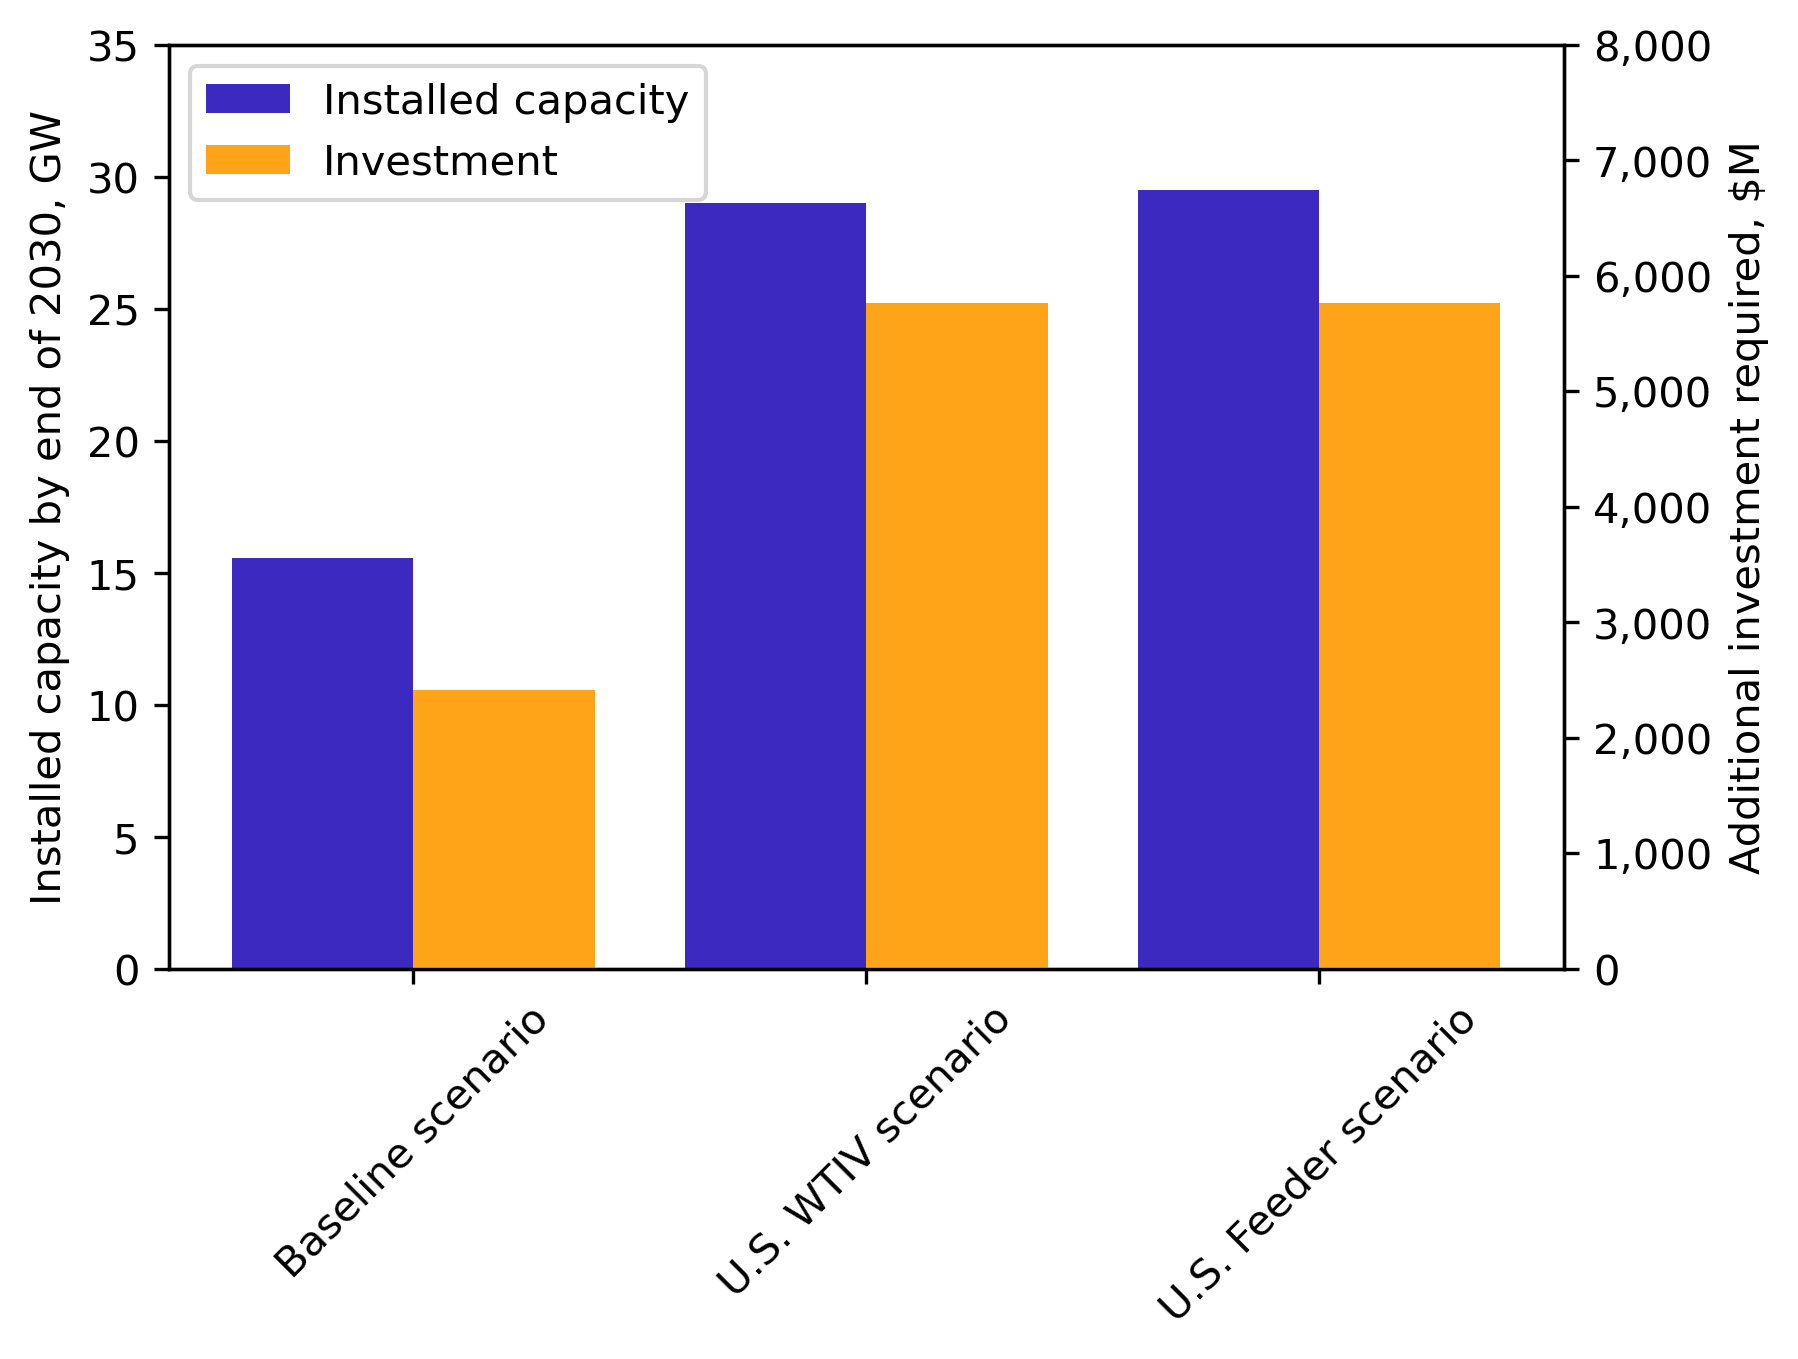
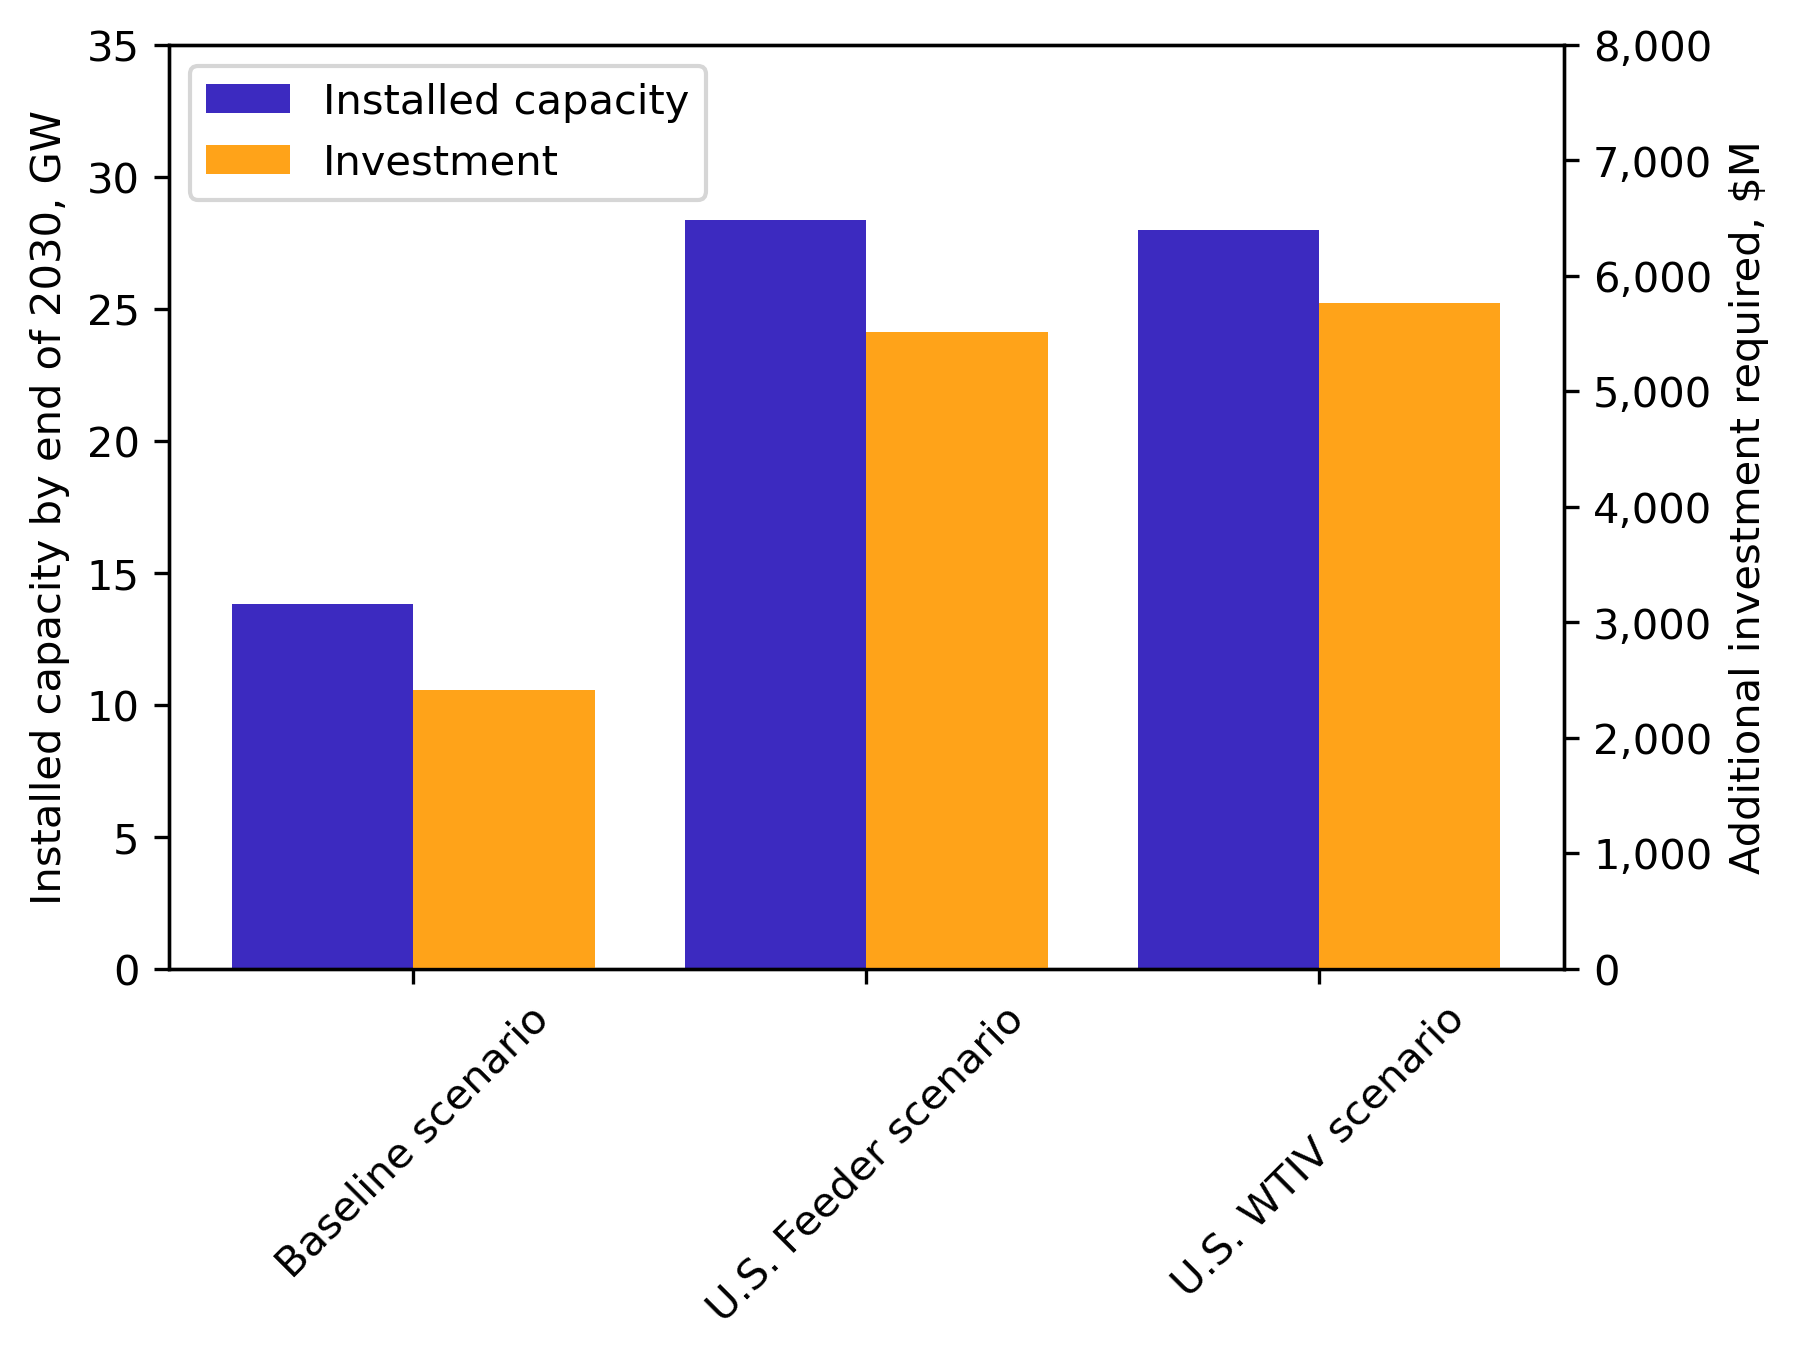
final scenarios for supply chain roadmap

diff --git a/helpers.py b/helpers.py
@@ -37,7 +37,7 @@ initial_allocations = {
     ]
     },
  'us_feeder': {
-    "wtiv": [('example_wtiv', 4),('example_heavy_lift_vessel', 4)],
+    "wtiv": [('example_wtiv', 2),('example_heavy_lift_vessel', 2)],
     "feeder": ('example_feeder', 2),
     "port": [
         ('new_bedford', 1),
@@ -56,30 +56,34 @@ future_allocations = {
 'base': [
     ['wtiv', 'example_wtiv', [dt.datetime(2025, 1, 1)]],
     ],
+# 'us_wtiv_old': [
+#     ['wtiv', 'example_wtiv', [dt.datetime(2025, 1, 1)]],
+#     ['wtiv', 'example_wtiv', [dt.datetime(2026, 1, 1)]],
+#     ['wtiv', 'example_wtiv', [dt.datetime(2028, 1, 1)]],
+#     ['wtiv', 'example_wtiv', [dt.datetime(2028, 1, 1)]],
+#     ['wtiv', 'example_heavy_lift_vessel', [dt.datetime(2027, 1, 1)]],
+#     ['wtiv', 'example_heavy_lift_vessel', [dt.datetime(2027, 1, 1)]],
+#     ['wtiv', 'example_heavy_lift_vessel', [dt.datetime(2027, 1, 1)]],
+#     ['port', 'njwp', [dt.datetime(2028, 1, 1)]],
+# ],
 'us_wtiv': [
-    ['wtiv', 'example_wtiv', [dt.datetime(2025, 1, 1)]],
     ['wtiv', 'example_wtiv', [dt.datetime(2026, 1, 1)]],
-    ['wtiv', 'example_wtiv', [dt.datetime(2028, 1, 1)]],
-    ['wtiv', 'example_wtiv', [dt.datetime(2028, 1, 1)]],
-    ['wtiv', 'example_heavy_lift_vessel', [dt.datetime(2027, 1, 1)]],
-    ['wtiv', 'example_heavy_lift_vessel', [dt.datetime(2027, 1, 1)]],
-    ['wtiv', 'example_heavy_lift_vessel', [dt.datetime(2027, 1, 1)]],
+    ['wtiv', 'example_wtiv', [dt.datetime(2026, 1, 1)]],
+    ['wtiv', 'example_wtiv', [dt.datetime(2026, 1, 1)]],
+    ['wtiv', 'example_wtiv', [dt.datetime(2026, 1, 1)]],
+    ['wtiv', 'example_heavy_lift_vessel', [dt.datetime(2026, 1, 1)]],
+    ['wtiv', 'example_heavy_lift_vessel', [dt.datetime(2026, 1, 1)]],
+    ['wtiv', 'example_heavy_lift_vessel', [dt.datetime(2026, 1, 1)]],
+    ['wtiv', 'example_heavy_lift_vessel', [dt.datetime(2026, 1, 1)]],
     ['port', 'njwp', [dt.datetime(2028, 1, 1)]],
 ],
 'us_feeder': [
-    # ['wtiv', 'example_wtiv', [dt.datetime(2025, 1, 1)]],
-    # ['wtiv', 'example_wtiv', [dt.datetime(2026, 1, 1)]],
-    # ['wtiv', 'example_wtiv', [dt.datetime(2028, 1, 1)]],
-    # ['wtiv', 'example_wtiv', [dt.datetime(2028, 1, 1)]],
-    # ['wtiv', 'example_heavy_lift_vessel', [dt.datetime(2027, 1, 1)]],
-    # ['wtiv', 'example_heavy_lift_vessel', [dt.datetime(2027, 1, 1)]],
-    # ['wtiv', 'example_heavy_lift_vessel', [dt.datetime(2027, 1, 1)]],
+    ['wtiv', 'example_wtiv', [dt.datetime(2026, 1, 1)]],
+    ['wtiv', 'example_wtiv', [dt.datetime(2026, 1, 1)]],
+    ['wtiv', 'example_heavy_lift_vessel', [dt.datetime(2026, 1, 1)]],
+    ['wtiv', 'example_heavy_lift_vessel', [dt.datetime(2026, 1, 1)]],
     ['feeder', 'example_feeder', [dt.datetime(2026,1,1)]],
     ['feeder', 'example_feeder', [dt.datetime(2026,1,1)]],
-    # ['feeder', 'example_feeder', [dt.datetime(2025,1,1)]],
-    # ['feeder', 'example_feeder', [dt.datetime(2025,1,1)]],
-    # ['feeder', 'example_feeder', [dt.datetime(2025,1,1)]],
-    # ['feeder', 'example_feeder', [dt.datetime(2025,1,1)]],
     ['port', 'njwp', [dt.datetime(2028, 1, 1)]],
 ],
 }
@@ -90,8 +94,8 @@ port = 400
 investments = {
     'year': [2022, 2023, 2024, 2025, 2026, 2027, 2028, 2028, 2030, 2031, 2032],
     'base': [1270, 0, 0, 887, 0, 260, 0, 0, 0, 0, 0],
-    'us_wtiv': [1270, 0, 0, 887, 500, 1910, 1200, 0, 0, 0, 0],
-    'us_feeder': [1270, 0, 0, 887, 1100, 1910, 1200, 0, 0, 0, 0],
+    'us_wtiv': [1270, 0, 0, 887, 2550, 860, 200, 0, 0, 0, 0],
+    'us_feeder': [1270, 0, 0, 887, 2300, 860, 200, 0, 0, 0, 0],
 }  # Fixed bottom ports only
 
 plot_names_map = {
@@ -111,14 +115,14 @@ scenario_totals = {
     'us_wtiv': {
         'us_wtivs': 5,
         'foreign_wtivs': 1,
-        'hlvs': 5,
+        'hlvs': 6,
         'feeders': 4,
         'ports': 9
     },
     'us_feeder': {
-        'us_wtivs': 2,
-        'foreign_wtivs': 4,
-        'hlvs': 5,
+        'us_wtivs': 1,
+        'wtivs': 3,
+        'hlvs': 4,
         'feeders': 8,
         'ports': 9
     }

diff --git a/run_analysis.py b/run_analysis.py
@@ -29,21 +29,31 @@ scenarios = {
                  'enforce_feeders': False,
                  'color_install': '#3D7F0B',
                  'color_delay': '#BBEB96'},
-     'us_wtiv': {'pipeline': ip['add_ports'],
-                  'initial': ia['us_wtiv'],
-                  'future': fa['us_wtiv'],
-                  'invest': [inv['us_wtiv']],
-                  'totals': st['us_wtiv'],
-                  'enforce_feeders': False,
-                  'color_install': '#0D3D5C',
-                  'color_delay': '#7EA5BF'
-                  },
-       'us_feeder': {'pipeline': ip['add_ports'],
+     # 'us_wtiv': {'pipeline': ip['add_ports'],
+     #              'initial': ia['us_wtiv'],
+     #              'future': fa['us_wtiv'],
+     #              'invest': [inv['us_wtiv']],
+     #              'totals': st['us_wtiv'],
+     #              'enforce_feeders': False,
+     #              'color_install': '#0D3D5C',
+     #              'color_delay': '#7EA5BF'
+     #              },
+      'us_feeder': {'pipeline': ip['add_ports'],
+                   'initial': ia['us_feeder'],
+                   'future': fa['us_feeder'],
+                   'invest': [inv['us_feeder']],
+                   'totals': st['us_feeder'],
+                   'enforce_feeders': True,
+                   'color_install': '#0D3D5C',
+                   'color_delay': '#7EA5BF'
+                   },
+
+       'us_wtiv': {'pipeline': ip['add_ports'],
                     'initial': ia['us_feeder'],
-                    'future': fa['us_feeder'],
+                    'future': fa['us_wtiv'],
                     'invest': [inv['us_wtiv']],
-                    'totals': st['us_feeder'],
-                    'enforce_feeders': True,
+                    'totals': st['us_wtiv'],
+                    'enforce_feeders': False,
                     'color_install': '#EC6200',
                     'color_delay': '#FF9245'
                     },
@@ -139,10 +149,18 @@ if __name__ == '__main__':
         # ax.text(x=dt.date(2031, 4, 1), y=24, s=f"{installed_capacity/1000:,.3} GW installed by the end of 2030", fontsize=16)
 
         # plt.title('subtitle', fontsize=16)
-        end_infrastructure = 'Available resources by 2030: \n' + \
+        if name == 'us_feeder':
+            end_infrastructure = 'Available resources by 2030: \n' + \
+                                    str(totals['us_wtivs']) + ' U.S-flagged WTIV \n' + \
+                                    str(totals['wtivs']) + ' U.S./Foreign-flagged WTIVs \n' + \
+                                    str(totals['hlvs']) + ' Foreign-flagged HLVs \n' + \
+                                    str(totals['feeders']) + ' U.S.-flagged feeder barges \n' + \
+                                    str(totals['ports']) + ' Marshaling ports \n'
+        else:
+            end_infrastructure = 'Available resources by 2030: \n' + \
                                 str(totals['us_wtivs']) + ' U.S-flagged WTIVs \n' + \
                                 str(totals['foreign_wtivs']) + ' Foreign-flagged WTIVs \n' + \
-                                str(totals['hlvs']) + 'Foreign-flagged HLVs \n' + \
+                                str(totals['hlvs']) + ' Foreign-flagged HLVs \n' + \
                                 str(totals['feeders']) + ' U.S.-flagged feeder barges \n' + \
                                 str(totals['ports']) + ' Marshaling ports \n'
         end_deployment = pnm[name] + ':\n' + f"{installed_capacity/1000:,.3} GW of fixed-bottom capacity installed by the end of 2030"
